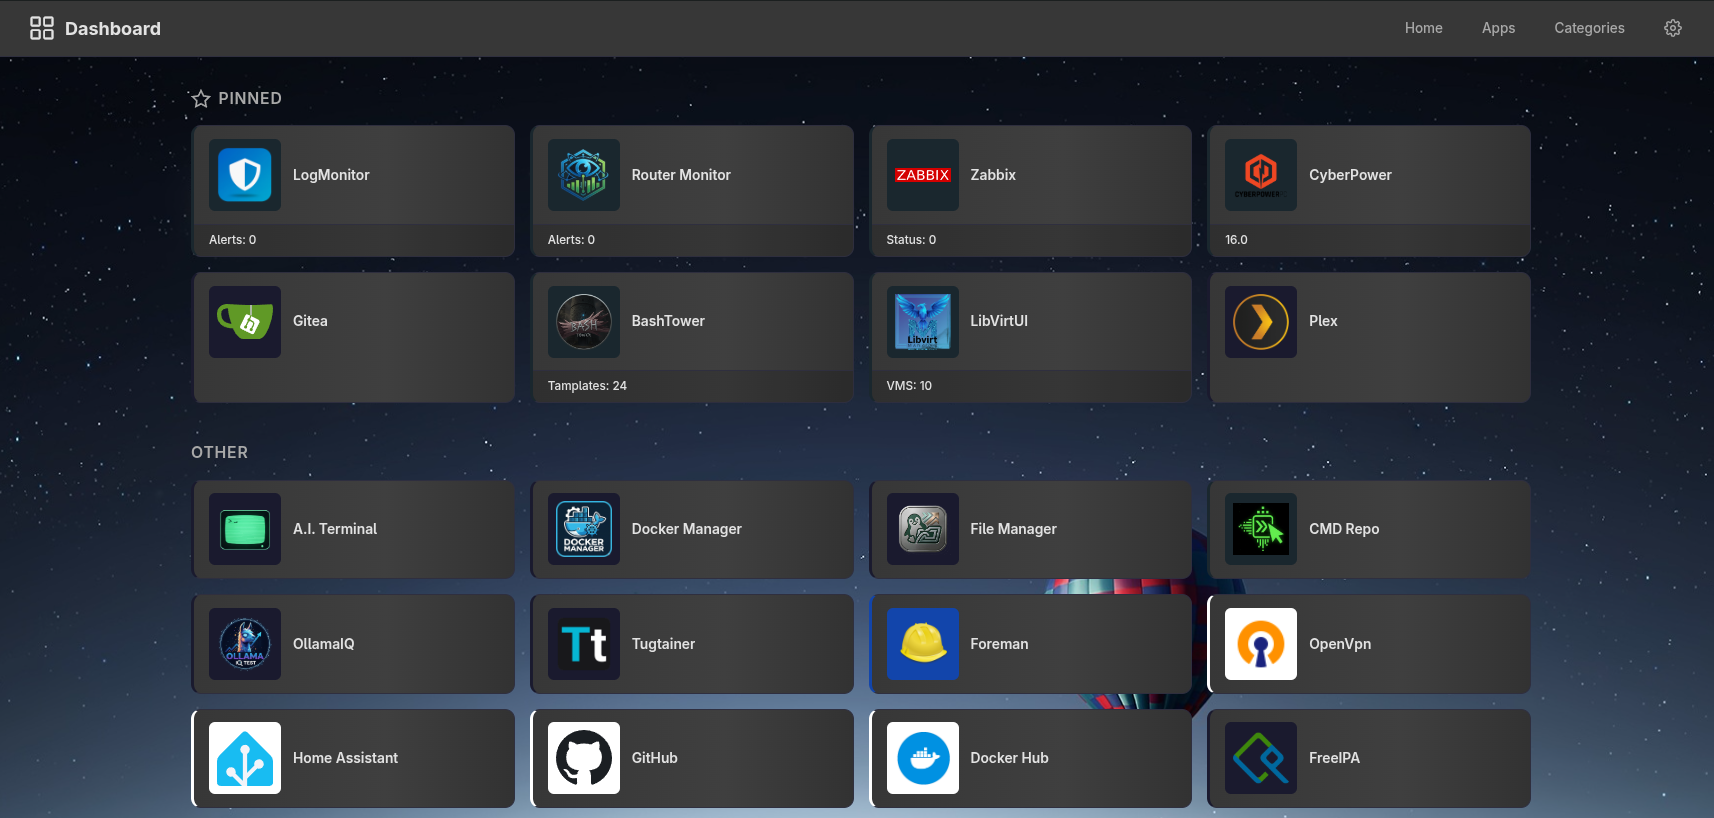
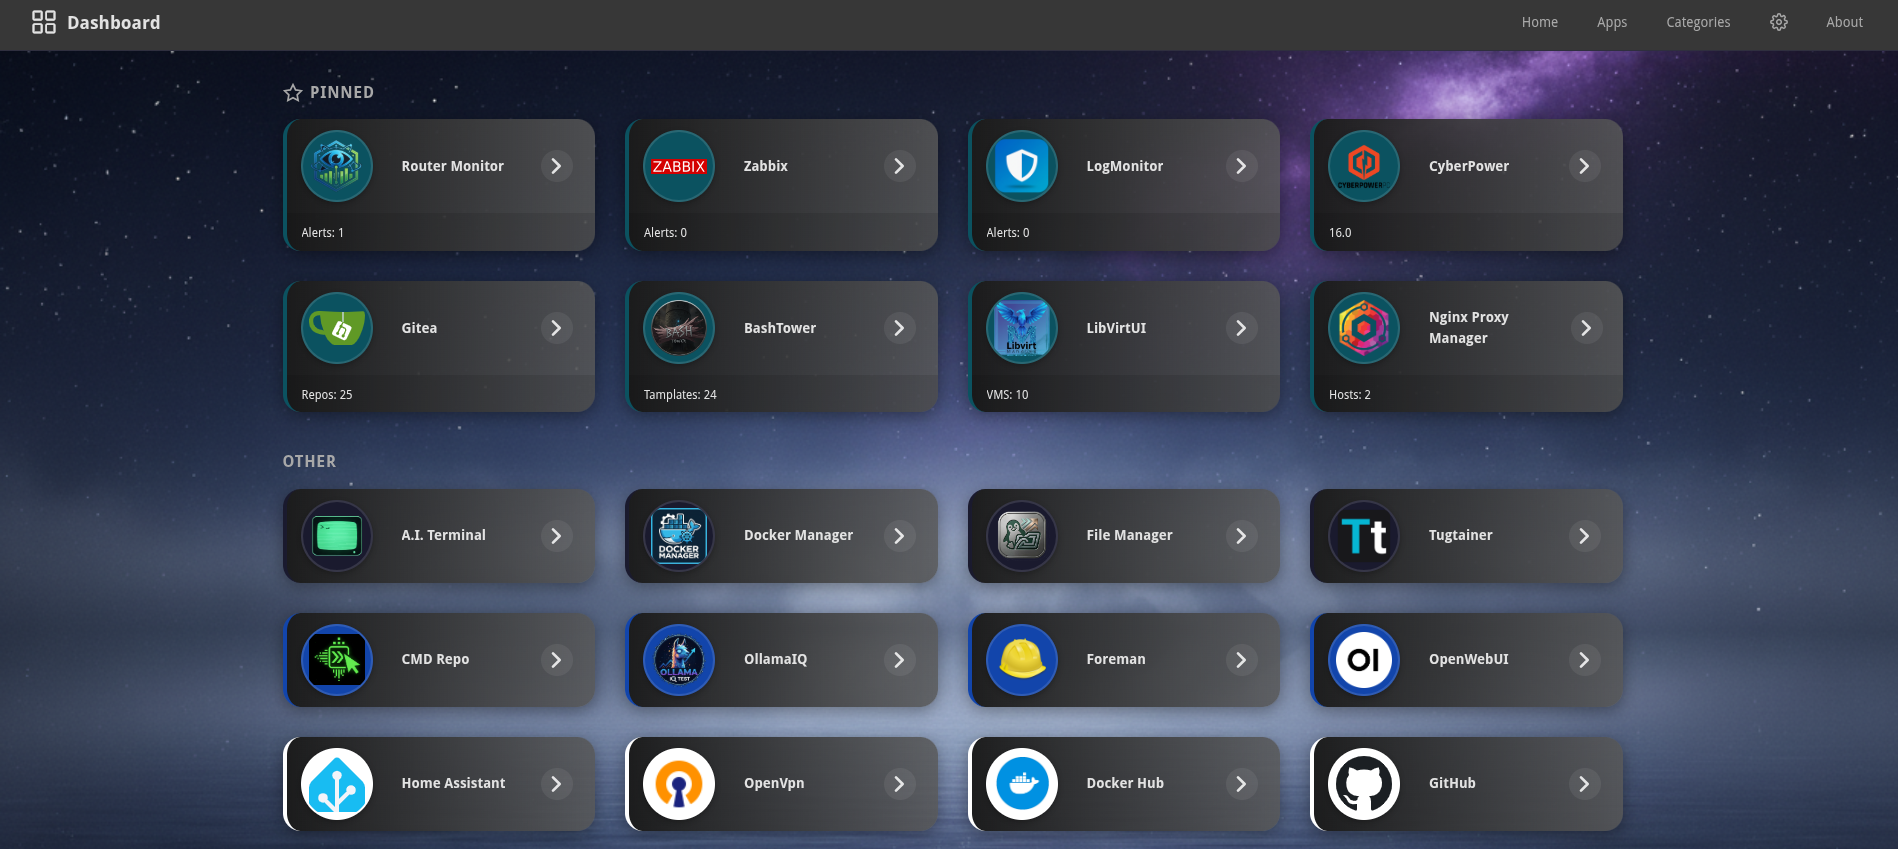
bump version to 1.1.0, add NPM authentication function, enhance app card layout, and improve CSS styles

diff --git a/static/style.css b/static/style.css
@@ -4,7 +4,7 @@
 :root {
     --bg: #2c2c2c;
     --bg-surface: #373737;
-    --bg-card: #323232;
+    --bg-card: #4a4a4a; /* lighter grey for cards */
     --bg-hover: #3f3f3f;
     --text: #e2e2e2;
     --text-muted: #a8a8a8;
@@ -143,7 +143,7 @@ a:hover { text-decoration: underline; }
 /* ── App Grid ─────────────────────────────────────────────────────────────── */
 .app-grid {
     display: grid;
-    gap: 1rem;
+    gap: 2rem; /* more space between tiles */
 }
 
 @media (max-width: 1200px) { .app-grid { grid-template-columns: repeat(4, 1fr) !important; } }
@@ -153,46 +153,61 @@ a:hover { text-decoration: underline; }
 
 .app-card {
     display: flex;
-    flex-direction: column;
+    flex-direction: column; /* footer below main row */
+    align-items: stretch;
     padding: 0;
-    /* stronger fade: surface → hover with darker edge */
-    background: linear-gradient(
-        to right,
-        var(--bg-surface) 0%,
-        var(--bg-hover) 60%,
-        var(--bg-card) 100%
-    );
-    border: 1px solid var(--border);
-    border-radius: var(--radius);
+    /* lighter grey with fade, using card variable */
+    background:
+        linear-gradient(to right, rgba(18, 18, 18, 0.85) 0%, rgba(32, 16, 16, 0) 100%),
+        rgba(87, 87, 87, 0.85);
+    border-radius: 18px;
+    box-shadow: 0 4px 16px rgba(0,0,0,0.35);
     text-decoration: none;
     color: var(--text);
-    transition: all var(--transition);
-    border-left: 3px solid var(--card-color, var(--primary));
+    transition: box-shadow var(--transition), background var(--transition);
+    border: none;
+    border-left: 4px solid var(--card-color, var(--primary));
     overflow: hidden;
+    /* size controlled by grid; no fixed min/max */
+}
+
+.app-card-footer {
+    padding: 0.5rem 1rem;
+    font-size: 0.85rem;
+    color: var(--text-muted);
+    background: rgba(0,0,0,0.1);
+    display: flex;
+    justify-content: space-between;
+    align-items: center;
+}
+.app-stats {
+    flex: 1;
 }
 .app-card:hover {
-    background: var(--bg-hover);
-    transform: translateY(-2px);
-    box-shadow: var(--shadow);
+    background: rgba(55, 55, 55, 0.95);
+    box-shadow: 0 8px 24px rgba(0,0,0,0.45);
     text-decoration: none;
 }
 
 .app-card-main {
     display: flex;
     align-items: center;
-    gap: 0.8rem;
-    padding: 0.85rem 1rem;
+    gap: 1.2rem;
+    padding: 1rem 1.2rem;
+    width: 100%;
 }
 
 .app-icon-wrap {
     width: 72px;
     height: 72px;
-    border-radius: var(--radius-sm);
+    border-radius: 50%;
     display: flex;
     align-items: center;
     justify-content: center;
     flex-shrink: 0;
     overflow: hidden;
+    box-shadow: 0 2px 8px rgba(0,0,0,0.25);
+    border: 2px solid rgba(255,255,255,0.12);
 }
 
 .app-icon {
@@ -201,6 +216,33 @@ a:hover { text-decoration: underline; }
     object-fit: contain;
 }
 
+.app-icon {
+    width: 56px;
+    height: 56px;
+    object-fit: contain;
+}
+/* Circle wrapper for icon */
+.app-icon-circle {
+    display: flex;
+    align-items: center;
+    justify-content: center;
+    width: 64px;
+    height: 64px;
+    border-radius: 50%;
+    background: rgba(0,0,0,0.18);
+    margin-right: 1rem;
+    box-shadow: 0 2px 8px rgba(0,0,0,0.18);
+}
+
+.app-arrow {
+    margin-left: auto;
+    display: flex;
+    align-items: center;
+    justify-content: center;
+    width: 40px;
+    height: 40px;
+    opacity: 0.85;
+}
 .app-icon-letter {
     font-size: 1.2rem;
     font-weight: 700;
@@ -425,17 +467,14 @@ a:hover { text-decoration: underline; }
 
 /* ── App Stats Bar ──────────────────────────────────────────────────────── */
 .app-stats {
-    padding: 0.45rem 1rem;
-    background: rgba(0,0,0,0.15);
-    border-top: 1px solid var(--border);
+    margin-top: 0.3rem;
     font-size: 0.78rem;
     color: var(--text-muted);
     white-space: nowrap;
     overflow: hidden;
     text-overflow: ellipsis;
-    min-height: 28px;
-    display: flex;
-    align-items: center;
+    min-height: 18px;
+    display: block;
 }
 
 .stats-loading {

diff --git a/templates/index.html b/templates/index.html
@@ -9,26 +9,35 @@
    data-id="{{ app.id }}"
    {% if app.api_url %}data-api-id="{{ app.id }}" data-api-interval="{{ app.api_interval or 30 }}"{% endif %}>
     <div class="app-card-main">
-        <div class="app-icon-wrap" style="background-color: {{ app.color }}">
-            {% if app.icon %}
-            <img src="{{ url_for('main.uploaded_icon', filename=app.icon) }}" alt="{{ app.title }}" class="app-icon">
-            {% else %}
-            <span class="app-icon-letter">{{ app.title[0] | upper }}</span>
-            {% endif %}
+        <div class="app-icon-circle">
+            <div class="app-icon-wrap" style="background-color: {{ app.color }}">
+                {% if app.icon %}
+                <img src="{{ url_for('main.uploaded_icon', filename=app.icon) }}" alt="{{ app.title }}" class="app-icon">
+                {% else %}
+                <span class="app-icon-letter">{{ app.title[0] | upper }}</span>
+                {% endif %}
+            </div>
         </div>
         <div class="app-info">
             <span class="app-title">{{ app.title }}</span>
-            {% if app.description %}<span class="app-desc">{{ app.description }}</span>{% endif %}
+        </div>
+        <div class="app-arrow">
+            <svg width="32" height="32" viewBox="0 0 24 24" fill="none" xmlns="http://www.w3.org/2000/svg">
+                <circle cx="12" cy="12" r="12" fill="rgba(255,255,255,0.08)"/>
+                <path d="M9 7l5 5-5 5" stroke="#fff" stroke-width="2" stroke-linecap="round" stroke-linejoin="round"/>
+            </svg>
         </div>
     </div>
-    {% if app.api_url %}
-    <div class="app-stats" id="stats-{{ app.id }}">
-        <span class="stats-loading">
-            <svg class="spin" width="14" height="14" viewBox="0 0 24 24" fill="none" stroke="currentColor" stroke-width="2"><path d="M21 12a9 9 0 1 1-6.22-8.56"/></svg>
-            Loading…
+    {%- if app.api_url %}
+    <div class="app-card-footer" id="footer-{{ app.id }}">
+        <span class="app-stats" id="stats-{{ app.id }}">
+            <span class="stats-loading">
+                <svg class="spin" width="14" height="14" viewBox="0 0 24 24" fill="none" stroke="currentColor" stroke-width="2"><path d="M21 12a9 9 0 1 1-6.22-8.56"/></svg>
+                Loading…
+            </span>
         </span>
     </div>
-    {% endif %}
+    {%- endif %}
 </a>
 {% endmacro %}
 

diff --git a/static/app.js b/static/app.js
@@ -18,7 +18,8 @@ document.addEventListener('DOMContentLoaded', () => {
             .then(r => r.json())
             .then(data => {
                 if (data.ok) {
-                    statsEl.innerHTML = '<span class="stats-value">' + escapeHtml(data.display) + '</span>';
+                    const statsVal = '<span class="stats-value">' + escapeHtml(data.display) + '</span>';
+                    statsEl.innerHTML = statsVal;
                 } else {
                     statsEl.innerHTML = '<span class="stats-error">' + escapeHtml(data.display) + '</span>';
                 }

diff --git a/routes.py b/routes.py
@@ -399,6 +399,8 @@ def _extract_value(data, template):
             return " | ".join(parts)
         return str(data)[:120]
 
+
+
     # if template begins with "regex:", treat data as plain text and apply pattern
     if isinstance(data, str) and isinstance(template, str) and template.startswith("regex:"):
         import re
@@ -417,6 +419,30 @@ def _extract_value(data, template):
 
     val = _resolve(data, template)
     return str(val) if val is not None else "—"
+
+
+
+
+
+def _npm_get_hosts(base_url: str, identity: str, secret: str, verify: bool = True):
+    """Authenticate with NPM and return /api/nginx/proxy-hosts JSON."""
+    sess = http_requests.Session()
+    if not verify:
+        sess.verify = False
+
+    auth = sess.post(base_url + "api/tokens",
+                     json={"identity": identity, "secret": secret},
+                     headers={"Accept": "application/json"})
+    auth.raise_for_status()
+    token = auth.json().get("token")
+    if not token:
+        raise ValueError("failed to obtain NPM token")
+
+    res = sess.get(base_url + "api/nginx/proxy-hosts",
+                   headers={"Accept": "application/json",
+                            "Authorization": f"Bearer {token}"})
+    res.raise_for_status()
+    return res.json()
 
 
 @main.route("/api/app/<int:app_id>/stats")
@@ -444,12 +470,44 @@ def api_app_stats(app_id):
         # prepare request kwargs; include payload if provided for non-GET methods
         kwargs = {"headers": headers, "timeout": 10, "verify": True}
         payload_val = app["api_payload"] if "api_payload" in app.keys() else None
+        # special-case Nginx Proxy Manager: perform login flow if creds provided
+        if app["api_url"].endswith("/api/nginx/proxy-hosts") and payload_val:
+            try:
+                creds = json.loads(payload_val)
+            except Exception:
+                creds = {}
+            # support both identity/secret and email/password naming
+            if isinstance(creds, dict) and (
+                ("identity" in creds and "secret" in creds) or
+                ("email" in creds and "password" in creds)
+            ):
+                ident = creds.get("identity") or creds.get("email")
+                secret = creds.get("secret") or creds.get("password")
+                verify = not creds.get("ignore_tls", False)
+                data = _npm_get_hosts(
+                    app["api_url"].rsplit("/api/nginx/proxy-hosts", 1)[0] + "/",
+                    ident,
+                    secret,
+                    verify,
+                )
+                display = _extract_value(data, app["api_value_template"])
+                return jsonify({"ok": True, "display": display})
         if payload_val and method in ("POST", "PUT", "PATCH", "DELETE"):
             try:
                 kwargs["json"] = json.loads(payload_val)
             except Exception:
                 kwargs["data"] = payload_val
         resp = http_requests.request(method, app["api_url"], **kwargs)
+
+        # LOGGING: dump status and body if not OK
+        if not resp.ok:
+            current_app.logger.warning(
+                "API call to %s returned %s:\n%s",
+                app["api_url"],
+                resp.status_code,
+                resp.text,
+            )
+
         resp.raise_for_status()
         try:
             data = resp.json()
